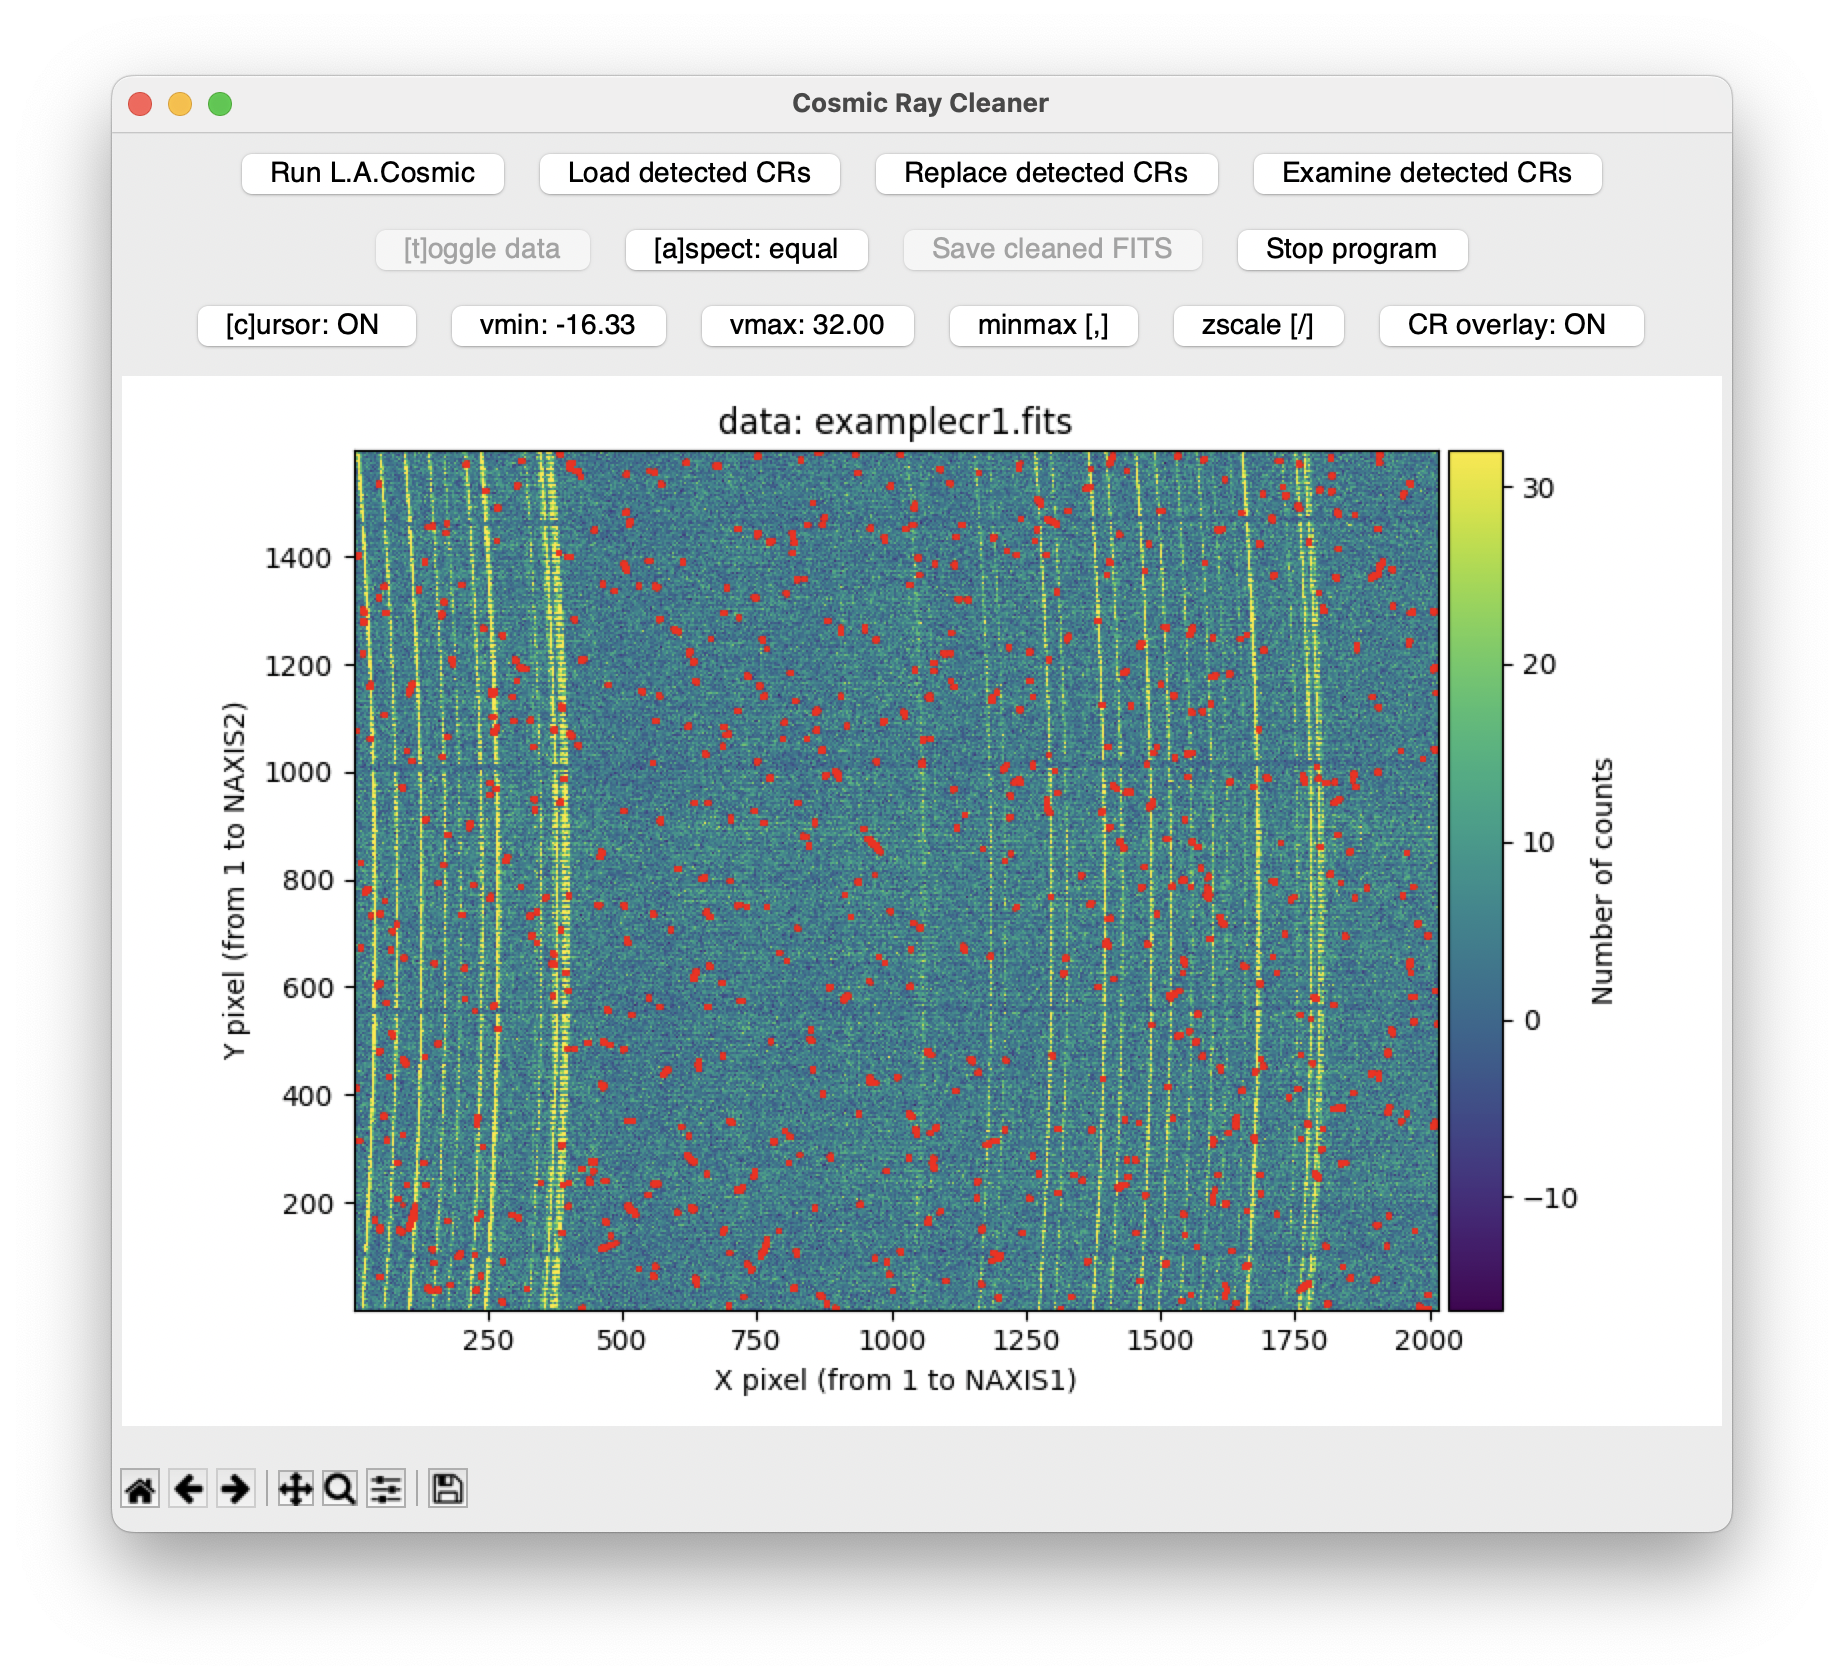
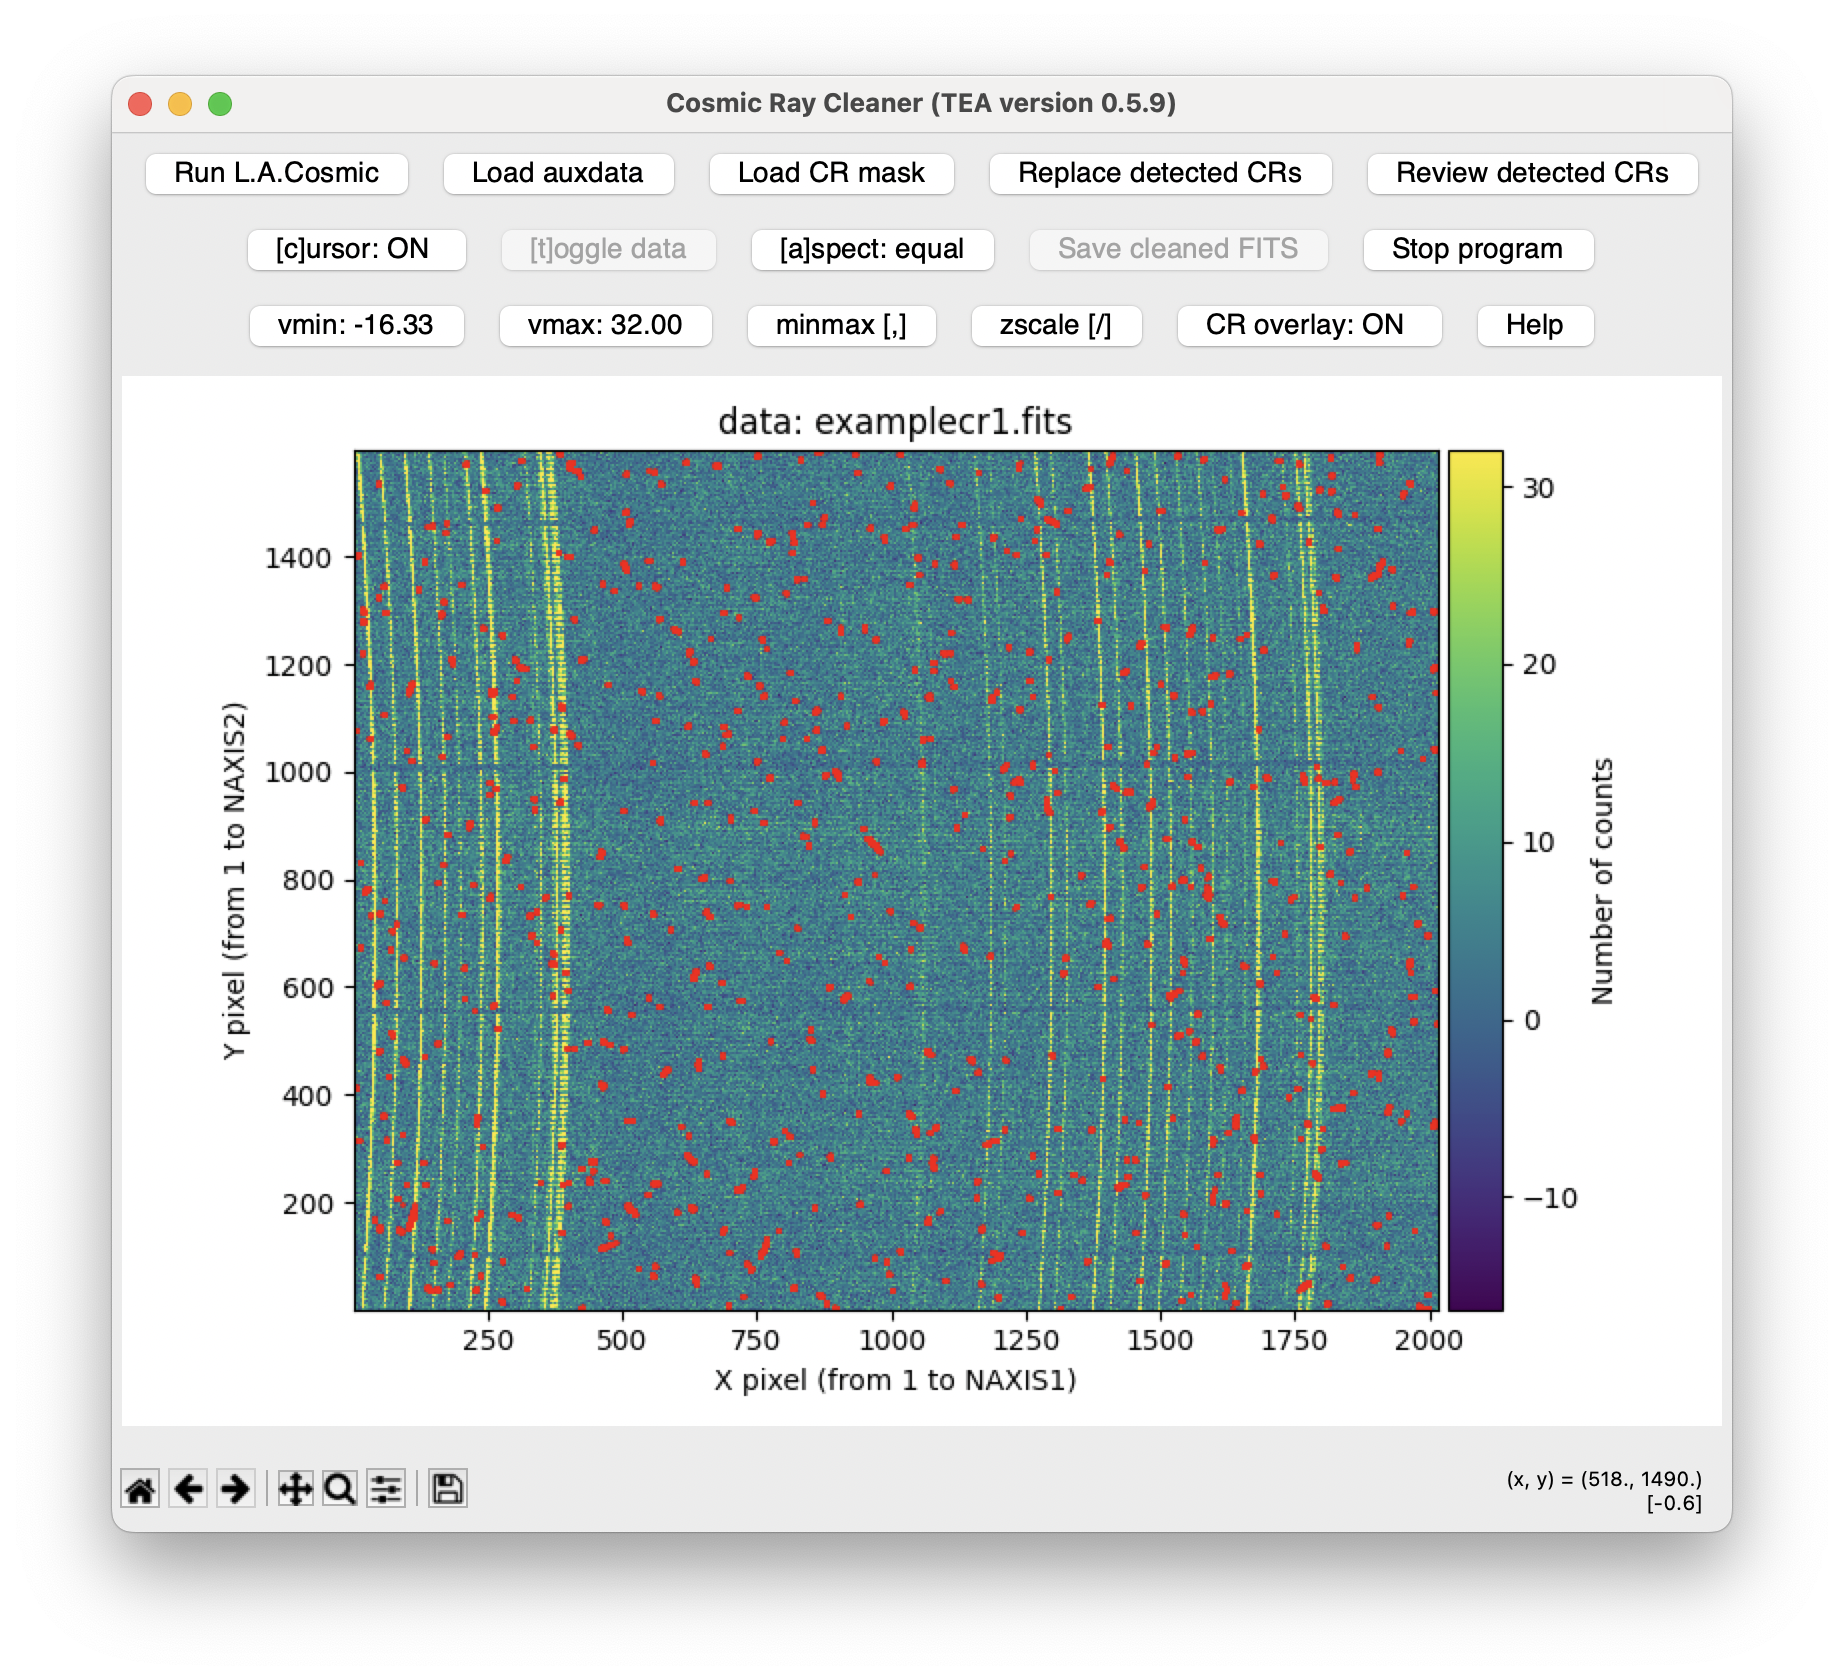
Update documentation with new functionality (version 0.6.0)

diff --git a/docs/cleanest/cleanest.md b/docs/cleanest/cleanest.md
@@ -47,6 +47,18 @@ sophisticated algorithms, such as the one implemented in
 [numina-crmasks](https://guaix-ucm.github.io/numina-tools/crmasks/crmasks.html).
 ```
 
+````{warning}
+If you are planning to use **tea-cleanest**, you need to install the package
+**teareduce** with extra dependencies. In this case employ:
+
+```console
+(venv_tea) $ pip install 'teareduce[cleanest]'
+```
+````
+
+It is possible to check whether **tea-cleanest** is correctly installed by
+running
+
 ```{include} files/help_tea-cleanest.md
 ```
 
@@ -77,9 +89,9 @@ we can use to control the program’s execution.
 
 The most convenient way to work with **tea-cleanest** is to first perform a
 search for pixels suspected of having been affected by cosmic rays. This task
-can be carried out by running the LACosmic algorithm. To do so, simply press A
-new window is then displayed, allowing us to define the parameters to be used.
-the `Run L.A.Cosmic` button in the main window.
+can be carried out by running the LACosmic algorithm. To do so, simply press
+the `Run L.A.Cosmic` button in the main window. A new window is then displayed,
+allowing us to define the parameters to be used.
 
 ```{image} images/single_2.png
 ```
@@ -87,7 +99,7 @@ the `Run L.A.Cosmic` button in the main window.
 That window is divided into three parameter blocks:
 
 - **L.A.Cosmic Parameters**: this section displays the parameters used by the
-  `cosmicray_lacosmic()` function. Note that the parameters appear in two
+  `cosmicray_lacosmic()` function. Note that each parameters appear in two
   columns: run1 and run2. The idea here is to run this function twice. In run1,
   a set of parameters is used to identify pixels that most clearly stand out as
   likely to have been affected by cosmic rays. In run2, some parameters can be
@@ -95,7 +107,9 @@ That window is divided into three parameter blocks:
   by cosmic rays. Although this second pass may generate a large number of
   false positives, the **tea-cleanest** code only adds to the cosmic-ray-pixel
   mask the run2 pixels that lie in the neighborhood of the run1 cosmic-ray
-  pixels.
+  pixels. Users are advised to consult the documentation of the
+  [`cosmicray_lacosmic()` function](https://ccdproc.readthedocs.io/en/latest/api/ccdproc.cosmicray_lacosmic.html) provided by the **ccdproc** package.
+  
 
 - **Additional Parameters**: here we can define a dilation factor that
   surrounds each cosmic-ray pixel with a ring of neighboring pixels, which can
@@ -125,7 +139,7 @@ one or several connected pixels.
 At this point, the user can choose to automatically clean all detected cosmic
 rays by selecting the `Replace detected CRs` button, or perform an individual
 analysis of each cosmic ray. For the latter option, you can sequentially go
-through all detected cosmic rays by clicking the `Examine detected CRs` button,
+through all detected cosmic rays by clicking the `Review detected CRs` button,
 or you can click on the image, and **tea-cleanest** will show the location of
 the cosmic ray closest to the cursor position (if there is no cosmic ray near
 the cursor, the program will show what is happening around the brightest
@@ -140,17 +154,25 @@ interpolation to use for replacing the signal of the cosmic-ray pixels.
 ```{image} images/single_4a.png
 ```
 
-The new window is divided into three sections:
+The new window is divided into four sections:
 
 - **Select Cleaning Method**: here we can choose to interpolate along the
   X-axis (`x_interp.`), the Y-axis (`y_interp.`), fit a plane
-  (`surface_interp.`), or replace the affected pixels using the mean, median,
-  or the values computed by L.A.Cosmic (`lacosmic`).
+  (`surface_interp.`), or replace the affected pixels using the `mean`,
+  `median`, the values computed by L.A.Cosmic (`lacosmic`), or the result
+  computed by the `maskfill` method described by {cite}`2024PASP..136c4503V`.
 
-- **Additional Parameters**: in this section, we can define the number of
+- **Fitting Parameters**: in this section, we can define the number of
   points to use in the neighborhood of the cosmic ray (to the right, left, or
   around it, depending on the chosen method) and the degree of the polynomial
   to use (for interpolations along X or Y).
+
+- **Maskfill Parameters**: here are the four parameters relevant to employing
+  the maskfill algorithm. It is recommended to consult the information on the
+  [maskfill website](https://github.com/dokkum/maskfill/tree/main), as well as
+  the documentation of the
+  [`maskfill()` function](https://github.com/dokkum/maskfill/blob/main/maskfill/maskfill.py).
+
 
 - **Region to be Examined**: the rectangular region in which the interpolation
   of the cosmic-ray pixels will be applied.
@@ -168,9 +190,18 @@ the results.
 ```{image} images/single_6a.png
 ```
 
+After closing the previous window, the cosmic-ray–cleaned image is displayed.
+
+```{image} images/single_7a.png
+```
+
+The image generated in this way can finally be saved by clicking the `Save
+cleaned FITS` button.
+
+
 ### Manual cleaning of the detected CRs
 
-If instead of the previous method the user chooses the `Examine detected CRs`
+If instead of the previous method the user chooses the `Review detected CRs`
 button in the main window, the program displays a new window *Review Cosmic
 Rays* where we can sequentially go through the detected cosmic rays and, based
 on the preselected affected pixels in each case, make the appropriate
@@ -189,6 +220,8 @@ back to previous ones. It is also possible to exit the sequential cleaning
 procedure by clicking the `[e]xit review` button. The top-left button allows
 modifying the number of neighboring points used in the interpolation, as well
 as the polynomial degree (for `[x] interp.` and `[y] interp.` cases).
+Analogously, the button `Maskfill params.` allows to modify the four parameters
+employed by the maskfill algorithm.
 
 If in the example shown we choose to replace the affected pixels with a plane
 fit (by clicking the `[s]urface interp.` button), the result is as shown below.
@@ -200,9 +233,21 @@ In this last image, the pixels used for the plane fit are shown with
 superimposed filled magenta circles, while the interpolated pixels are indicated
 with filled orange circles.
 
+Clicking the `[c]ontinue` button allows you to proceed to the next detected
+cosmic ray. The user can exit the cleaning sequence at any time by clicking the
+`[e]xit review` button.
+
+
 ```{note}
 After performing the cosmic-ray cleaning, the user should not forget to save
 the result by clicking the `Save cleaned FITS` button in the main window.
+
+**Important**: the image saved in this way will contain the same extensions as
+the original image, with the cleaned image stored in the same extension that
+was specified when reading the original image. In addition, **tea-cleanest**
+adds an extra FITS extension called `CRMASKS`, which contains a mask of the
+interpolated pixels: the only possible values in this mask are 0 (unmodified
+pixels) and 1 (pixels interpolated during the cosmic-ray correction).
 ```
 
 ```{warning}
@@ -215,6 +260,14 @@ interpolation in the `Review Cosmic Rays` window. For this reason, it is more
 convenient to run L.A.Cosmic beforehand to generate a mask of suspected pixels,
 so that **tea-cleanest** preselects all neighboring pixels likely affected by
 the same cosmic ray.
+
+Alternatively, the user can use the `Load CR mask` button in the main window to
+load a cosmic-ray mask from a FITS image (0: pixels not affected by cosmic
+rays; 1: pixels affected by cosmic rays; the image extension must have BITPIX
+equal to 8 or 16).  A dilation factor can be applied to this mask. Once it is
+loaded, the affected pixels are regrouped into cosmic rays, and their removal
+can proceed using either of the two methods described above: `Replace detected
+CRs` or `Review detected CRs`.
 ```
 
 ## Advanced execution (two images)
@@ -226,19 +279,26 @@ After cleaning the first image, the procedure can be repeated by swapping the
 roles of the two exposures, so that in the end we obtain a cosmic-ray–cleaned
 version of both original exposures.
 
-```bash
-(tea) $ tea-cleanest examplecr1.fits --auxfile examplecr2.fits
+```console
+(venv_tea) $ tea-cleanest examplecr1.fits --auxfile examplecr2.fits
 ```
+
+The auxiliary image can be loaded directly when starting **tea-cleanest** (as
+shown in the previous command line), or it can be read from any FITS file
+during program execution by using the `Load auxdata` button in the main window.
+
 Running L.A.Cosmic is done in the same way as previously explained. However,
 when using the `Replace detected CRs` button, an additional option now appears
-among the interpolation methods: `lacosmic`. Choosing this new interpolation
-method causes **tea-cleanest** to replace all selected cosmic-ray pixels using
-the signal from the corresponding pixels in the auxiliary image.
+among the available interpolation methods: `auxdata` (the selection of this
+method is not possible when running the code in single-image mode). Choosing
+this new interpolation method causes **tea-cleanest** to replace all selected
+cosmic-ray pixels using the signal from the corresponding pixels in the
+auxiliary image.
 
 ```{image} images/double_4a.png
 ```
 
-On the other hand, if the user chooses the `Examine detected CRs` option, the
+On the other hand, if the user chooses the `Review detected CRs` option, the
 `[a]ux. data` button will be active in the *Review Cosmic Rays* window, giving
 access to interpolation by replacing the pixels with the signal from the
 auxiliary image. Additionally, this window simultaneously displays the image to
@@ -258,13 +318,57 @@ pixels previously selected for interpolation (filled orange circles are shown,
 but no filled magenta circles).
 
 
-## Description of the button actions
+## Description of the main window button actions
 
-- Window *Cosmic Ray Cleaner* (main window):
+This section briefly describes the functionality associated with each button
+that appears in the main window of **tea-cleanest**.
 
-- Window *Cleaning Parameters*:
+- `Run L.A.Cosmic`: runs the generation of a mask of pixels affected by
+  cosmic rays using van Dokkum’s L.A.Cosmic algorithm.
 
-- Window *Review Cosmic Rays*:
+- `Load auxdata`: loads an auxiliary image whose information can be used
+  to replace pixels affected by cosmic rays in the main image.
+
+- `Load CR mask`: loads a mask of pixels affected by cosmic rays
+  from a FITS file. You can specify the extension where the mask is located.
+
+- `Replace detected CRs`: enables automatic removal of all pixels affected
+  by cosmic rays using any of the available interpolation methods.
+
+- `Review detected CRs`: provides access to the individual visualization of each
+  detected cosmic ray. This option allows interactive interpolation of the
+  different cosmic rays.
+
+- `[c]ursor: OFF`: toggles the use of the cursor to select pixels for
+   interactive interpolation after clicking anywhere on the image shown in the
+   main window.
+
+- `[t]oggle data` (button active only when an auxiliary image has been loaded):
+  quickly switches the image displayed in the main window, alternating between
+  the original image and the auxiliary image.
+
+- `[a]spect: equal`: displays the image shown in the main window using aspect
+  `equal` or `auto` (the latter distorts the X/Y pixel ratio but maximizes use
+  of the plotting window).
+
+- `Save cleaned FITS`: saves the latest available version of the cleaned image.
+
+- `Stop program`: stops program execution.
+
+- `vmin: ???`: the `vmin` value used by matplotlib.
+
+- `vmax: ???`: the `vmax` value used by matplotlib.
+
+- `minmax[,]`: sets `vmin` and `vmax` to the minimum and maximum values,
+  respectively, of the image shown in the main window.
+
+- `zscale[/]`: adjusts `vmin` and `vmax` to use values close to the median of
+  the image (IRAF-style).
+
+- `CR overlay: ON`: toggles overlaying the detected cosmic rays on the image
+  displayed in the main window.
+
+- `Help`: shows help information for all buttons.
 
 ## Using the cleanest functionality programmatically
 
